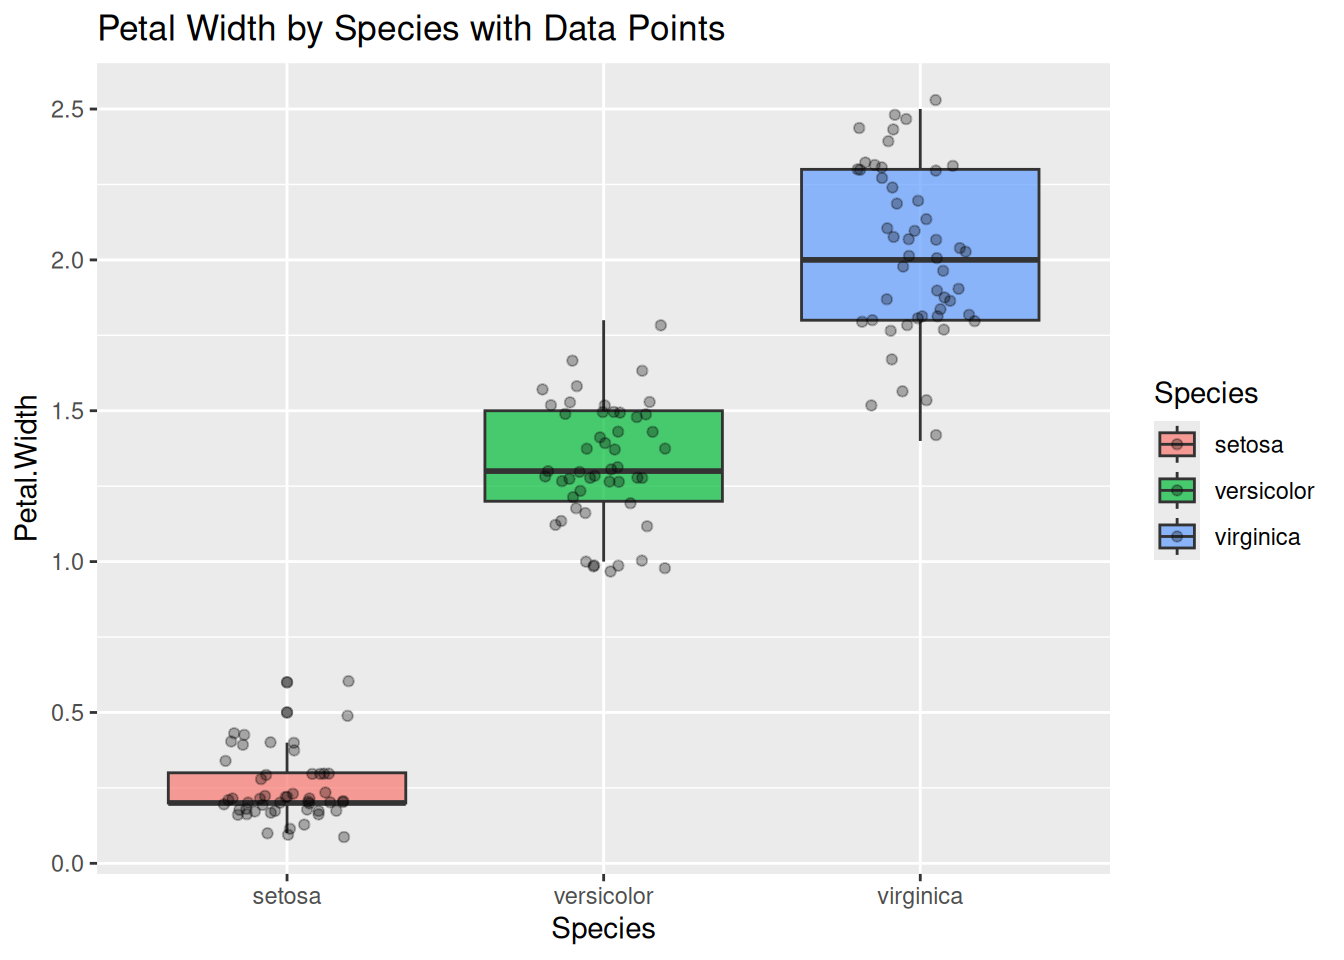
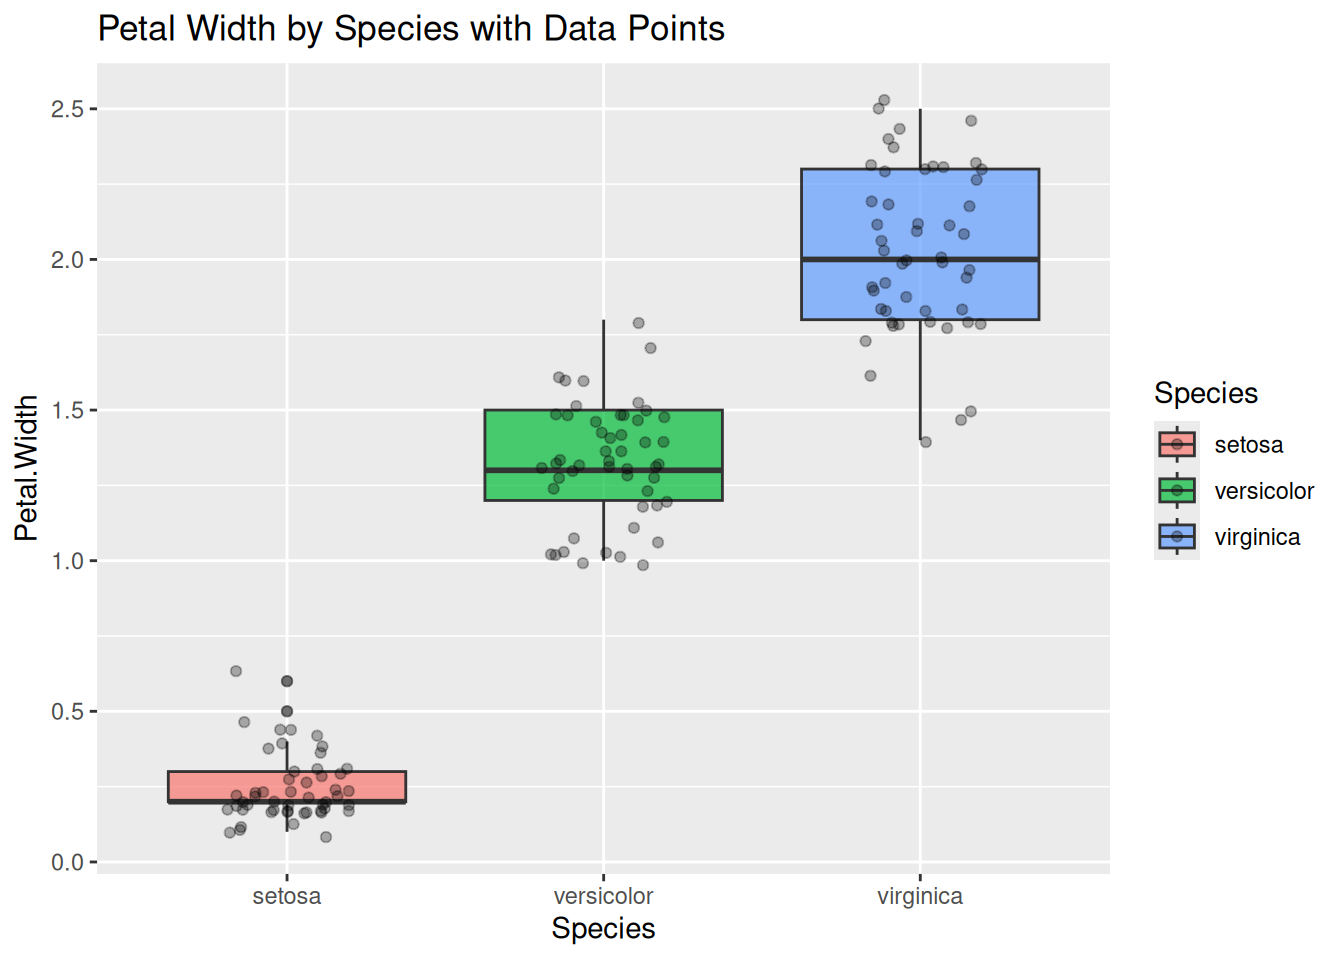
updated sidebar

diff --git a/docs/r-tutorial/4StatisticalAnalysis.html b/docs/r-tutorial/4StatisticalAnalysis.html
@@ -357,23 +357,23 @@ pre > code.sourceCode > span > a:first-child::before { text-decoration: underlin
 
     <script>
       // Create table-specific functions using external factory
-      const tableFns_upsnbsl1tlbatbt6h4bt = TinyTable.createTableFunctions("tinytable_upsnbsl1tlbatbt6h4bt");
+      const tableFns_374ycenhi2wn12c3tktt = TinyTable.createTableFunctions("tinytable_374ycenhi2wn12c3tktt");
       // tinytable span after
       window.addEventListener('load', function () {
           var cellsToStyle = [
             // tinytable style arrays after
-          { positions: [ { i: '6', j: 3 }, { i: '6', j: 4 }, { i: '6', j: 5 } ], css_id: 'tinytable_css_02z5najz4wd6gfgw926m',}, 
-          { positions: [ { i: '1', j: 3 }, { i: '2', j: 3 }, { i: '3', j: 3 }, { i: '4', j: 3 }, { i: '5', j: 3 }, { i: '1', j: 4 }, { i: '2', j: 4 }, { i: '3', j: 4 }, { i: '4', j: 4 }, { i: '5', j: 4 }, { i: '1', j: 5 }, { i: '2', j: 5 }, { i: '3', j: 5 }, { i: '4', j: 5 }, { i: '5', j: 5 } ], css_id: 'tinytable_css_k1pmapd3bjt8xq6niu3m',}, 
-          { positions: [ { i: '0', j: 3 }, { i: '0', j: 4 }, { i: '0', j: 5 } ], css_id: 'tinytable_css_we4lrx3vsed37xxqtoii',}, 
-          { positions: [ { i: '6', j: 1 }, { i: '6', j: 2 } ], css_id: 'tinytable_css_c86n5cbfs6wk9m1sos1z',}, 
-          { positions: [ { i: '1', j: 1 }, { i: '2', j: 1 }, { i: '3', j: 1 }, { i: '4', j: 1 }, { i: '5', j: 1 }, { i: '1', j: 2 }, { i: '2', j: 2 }, { i: '3', j: 2 }, { i: '4', j: 2 }, { i: '5', j: 2 } ], css_id: 'tinytable_css_j82vrtus5cxqwl1uw58u',}, 
-          { positions: [ { i: '0', j: 1 }, { i: '0', j: 2 } ], css_id: 'tinytable_css_w0msxivypxb0uu1harna',}, 
+          { positions: [ { i: '6', j: 3 }, { i: '6', j: 4 }, { i: '6', j: 5 } ], css_id: 'tinytable_css_wufca85wapmo186gys2g',}, 
+          { positions: [ { i: '1', j: 3 }, { i: '2', j: 3 }, { i: '3', j: 3 }, { i: '4', j: 3 }, { i: '5', j: 3 }, { i: '1', j: 4 }, { i: '2', j: 4 }, { i: '3', j: 4 }, { i: '4', j: 4 }, { i: '5', j: 4 }, { i: '1', j: 5 }, { i: '2', j: 5 }, { i: '3', j: 5 }, { i: '4', j: 5 }, { i: '5', j: 5 } ], css_id: 'tinytable_css_il0slav2actfytgyhx9m',}, 
+          { positions: [ { i: '0', j: 3 }, { i: '0', j: 4 }, { i: '0', j: 5 } ], css_id: 'tinytable_css_ubamn7dusdtm0cf72v0b',}, 
+          { positions: [ { i: '6', j: 1 }, { i: '6', j: 2 } ], css_id: 'tinytable_css_zntxlg8zc40x9brg6sri',}, 
+          { positions: [ { i: '1', j: 1 }, { i: '2', j: 1 }, { i: '3', j: 1 }, { i: '4', j: 1 }, { i: '5', j: 1 }, { i: '1', j: 2 }, { i: '2', j: 2 }, { i: '3', j: 2 }, { i: '4', j: 2 }, { i: '5', j: 2 } ], css_id: 'tinytable_css_jv9xbdcr91lpzg7ifk6i',}, 
+          { positions: [ { i: '0', j: 1 }, { i: '0', j: 2 } ], css_id: 'tinytable_css_hrb7d0nvprcy7z6gr3ot',}, 
           ];
 
           // Loop over the arrays to style the cells
           cellsToStyle.forEach(function (group) {
               group.positions.forEach(function (cell) {
-                  tableFns_upsnbsl1tlbatbt6h4bt.styleCell(cell.i, cell.j, group.css_id);
+                  tableFns_374ycenhi2wn12c3tktt.styleCell(cell.i, cell.j, group.css_id);
               });
           });
       });
@@ -382,15 +382,15 @@ pre > code.sourceCode > span > a:first-child::before { text-decoration: underlin
     <link rel="stylesheet" href="https://cdn.jsdelivr.net/gh/vincentarelbundock/tinytable@main/inst/tinytable.css">
     <style>
     /* tinytable css entries after */
-    #tinytable_upsnbsl1tlbatbt6h4bt td.tinytable_css_02z5najz4wd6gfgw926m, #tinytable_upsnbsl1tlbatbt6h4bt th.tinytable_css_02z5najz4wd6gfgw926m {  position: relative; --border-bottom: 1; --border-left: 0; --border-right: 0; --border-top: 0; --line-color-bottom: var(--tt-line-color); --line-color-left: var(--tt-line-color); --line-color-right: var(--tt-line-color); --line-color-top: var(--tt-line-color); --line-width-bottom: 0.1em; --line-width-left: 0.1em; --line-width-right: 0.1em; --line-width-top: 0.1em; --trim-bottom-left: 0%; --trim-bottom-right: 0%; --trim-left-bottom: 0%; --trim-left-top: 0%; --trim-right-bottom: 0%; --trim-right-top: 0%; --trim-top-left: 0%; --trim-top-right: 0%; ; text-align: right }
-    #tinytable_upsnbsl1tlbatbt6h4bt td.tinytable_css_k1pmapd3bjt8xq6niu3m, #tinytable_upsnbsl1tlbatbt6h4bt th.tinytable_css_k1pmapd3bjt8xq6niu3m { text-align: right }
-    #tinytable_upsnbsl1tlbatbt6h4bt td.tinytable_css_we4lrx3vsed37xxqtoii, #tinytable_upsnbsl1tlbatbt6h4bt th.tinytable_css_we4lrx3vsed37xxqtoii {  position: relative; --border-bottom: 1; --border-left: 0; --border-right: 0; --border-top: 1; --line-color-bottom: var(--tt-line-color); --line-color-left: var(--tt-line-color); --line-color-right: var(--tt-line-color); --line-color-top: var(--tt-line-color); --line-width-bottom: 0.05em; --line-width-left: 0.1em; --line-width-right: 0.1em; --line-width-top: 0.1em; --trim-bottom-left: 0%; --trim-bottom-right: 0%; --trim-left-bottom: 0%; --trim-left-top: 0%; --trim-right-bottom: 0%; --trim-right-top: 0%; --trim-top-left: 0%; --trim-top-right: 0%; ; text-align: right }
-    #tinytable_upsnbsl1tlbatbt6h4bt td.tinytable_css_c86n5cbfs6wk9m1sos1z, #tinytable_upsnbsl1tlbatbt6h4bt th.tinytable_css_c86n5cbfs6wk9m1sos1z {  position: relative; --border-bottom: 1; --border-left: 0; --border-right: 0; --border-top: 0; --line-color-bottom: var(--tt-line-color); --line-color-left: var(--tt-line-color); --line-color-right: var(--tt-line-color); --line-color-top: var(--tt-line-color); --line-width-bottom: 0.1em; --line-width-left: 0.1em; --line-width-right: 0.1em; --line-width-top: 0.1em; --trim-bottom-left: 0%; --trim-bottom-right: 0%; --trim-left-bottom: 0%; --trim-left-top: 0%; --trim-right-bottom: 0%; --trim-right-top: 0%; --trim-top-left: 0%; --trim-top-right: 0%; ; text-align: left }
-    #tinytable_upsnbsl1tlbatbt6h4bt td.tinytable_css_j82vrtus5cxqwl1uw58u, #tinytable_upsnbsl1tlbatbt6h4bt th.tinytable_css_j82vrtus5cxqwl1uw58u { text-align: left }
-    #tinytable_upsnbsl1tlbatbt6h4bt td.tinytable_css_w0msxivypxb0uu1harna, #tinytable_upsnbsl1tlbatbt6h4bt th.tinytable_css_w0msxivypxb0uu1harna {  position: relative; --border-bottom: 1; --border-left: 0; --border-right: 0; --border-top: 1; --line-color-bottom: var(--tt-line-color); --line-color-left: var(--tt-line-color); --line-color-right: var(--tt-line-color); --line-color-top: var(--tt-line-color); --line-width-bottom: 0.05em; --line-width-left: 0.1em; --line-width-right: 0.1em; --line-width-top: 0.1em; --trim-bottom-left: 0%; --trim-bottom-right: 0%; --trim-left-bottom: 0%; --trim-left-top: 0%; --trim-right-bottom: 0%; --trim-right-top: 0%; --trim-top-left: 0%; --trim-top-right: 0%; ; text-align: left }
+    #tinytable_374ycenhi2wn12c3tktt td.tinytable_css_wufca85wapmo186gys2g, #tinytable_374ycenhi2wn12c3tktt th.tinytable_css_wufca85wapmo186gys2g {  position: relative; --border-bottom: 1; --border-left: 0; --border-right: 0; --border-top: 0; --line-color-bottom: var(--tt-line-color); --line-color-left: var(--tt-line-color); --line-color-right: var(--tt-line-color); --line-color-top: var(--tt-line-color); --line-width-bottom: 0.1em; --line-width-left: 0.1em; --line-width-right: 0.1em; --line-width-top: 0.1em; --trim-bottom-left: 0%; --trim-bottom-right: 0%; --trim-left-bottom: 0%; --trim-left-top: 0%; --trim-right-bottom: 0%; --trim-right-top: 0%; --trim-top-left: 0%; --trim-top-right: 0%; ; text-align: right }
+    #tinytable_374ycenhi2wn12c3tktt td.tinytable_css_il0slav2actfytgyhx9m, #tinytable_374ycenhi2wn12c3tktt th.tinytable_css_il0slav2actfytgyhx9m { text-align: right }
+    #tinytable_374ycenhi2wn12c3tktt td.tinytable_css_ubamn7dusdtm0cf72v0b, #tinytable_374ycenhi2wn12c3tktt th.tinytable_css_ubamn7dusdtm0cf72v0b {  position: relative; --border-bottom: 1; --border-left: 0; --border-right: 0; --border-top: 1; --line-color-bottom: var(--tt-line-color); --line-color-left: var(--tt-line-color); --line-color-right: var(--tt-line-color); --line-color-top: var(--tt-line-color); --line-width-bottom: 0.05em; --line-width-left: 0.1em; --line-width-right: 0.1em; --line-width-top: 0.1em; --trim-bottom-left: 0%; --trim-bottom-right: 0%; --trim-left-bottom: 0%; --trim-left-top: 0%; --trim-right-bottom: 0%; --trim-right-top: 0%; --trim-top-left: 0%; --trim-top-right: 0%; ; text-align: right }
+    #tinytable_374ycenhi2wn12c3tktt td.tinytable_css_zntxlg8zc40x9brg6sri, #tinytable_374ycenhi2wn12c3tktt th.tinytable_css_zntxlg8zc40x9brg6sri {  position: relative; --border-bottom: 1; --border-left: 0; --border-right: 0; --border-top: 0; --line-color-bottom: var(--tt-line-color); --line-color-left: var(--tt-line-color); --line-color-right: var(--tt-line-color); --line-color-top: var(--tt-line-color); --line-width-bottom: 0.1em; --line-width-left: 0.1em; --line-width-right: 0.1em; --line-width-top: 0.1em; --trim-bottom-left: 0%; --trim-bottom-right: 0%; --trim-left-bottom: 0%; --trim-left-top: 0%; --trim-right-bottom: 0%; --trim-right-top: 0%; --trim-top-left: 0%; --trim-top-right: 0%; ; text-align: left }
+    #tinytable_374ycenhi2wn12c3tktt td.tinytable_css_jv9xbdcr91lpzg7ifk6i, #tinytable_374ycenhi2wn12c3tktt th.tinytable_css_jv9xbdcr91lpzg7ifk6i { text-align: left }
+    #tinytable_374ycenhi2wn12c3tktt td.tinytable_css_hrb7d0nvprcy7z6gr3ot, #tinytable_374ycenhi2wn12c3tktt th.tinytable_css_hrb7d0nvprcy7z6gr3ot {  position: relative; --border-bottom: 1; --border-left: 0; --border-right: 0; --border-top: 1; --line-color-bottom: var(--tt-line-color); --line-color-left: var(--tt-line-color); --line-color-right: var(--tt-line-color); --line-color-top: var(--tt-line-color); --line-width-bottom: 0.05em; --line-width-left: 0.1em; --line-width-right: 0.1em; --line-width-top: 0.1em; --trim-bottom-left: 0%; --trim-bottom-right: 0%; --trim-left-bottom: 0%; --trim-left-top: 0%; --trim-right-bottom: 0%; --trim-right-top: 0%; --trim-top-left: 0%; --trim-top-right: 0%; ; text-align: left }
     </style>
     <div class="container">
-      <table class="tinytable" id="tinytable_upsnbsl1tlbatbt6h4bt" style="width: auto; margin-left: auto; margin-right: auto;" data-quarto-disable-processing="true">
+      <table class="tinytable" id="tinytable_374ycenhi2wn12c3tktt" style="width: auto; margin-left: auto; margin-right: auto;" data-quarto-disable-processing="true">
         
         <thead>
               <tr>
@@ -466,23 +466,23 @@ pre > code.sourceCode > span > a:first-child::before { text-decoration: underlin
 
     <script>
       // Create table-specific functions using external factory
-      const tableFns_0ac20kukjn6k8f0yf9et = TinyTable.createTableFunctions("tinytable_0ac20kukjn6k8f0yf9et");
+      const tableFns_pqh5hqo3qnbg8i70icv6 = TinyTable.createTableFunctions("tinytable_pqh5hqo3qnbg8i70icv6");
       // tinytable span after
       window.addEventListener('load', function () {
           var cellsToStyle = [
             // tinytable style arrays after
-          { positions: [ { i: '6', j: 3 }, { i: '6', j: 4 }, { i: '6', j: 5 } ], css_id: 'tinytable_css_11whqqc7vu8isufu4b06',}, 
-          { positions: [ { i: '1', j: 3 }, { i: '2', j: 3 }, { i: '3', j: 3 }, { i: '4', j: 3 }, { i: '5', j: 3 }, { i: '1', j: 4 }, { i: '2', j: 4 }, { i: '3', j: 4 }, { i: '4', j: 4 }, { i: '5', j: 4 }, { i: '1', j: 5 }, { i: '2', j: 5 }, { i: '3', j: 5 }, { i: '4', j: 5 }, { i: '5', j: 5 } ], css_id: 'tinytable_css_nqpypwq73ivc4kxhkckn',}, 
-          { positions: [ { i: '0', j: 3 }, { i: '0', j: 4 }, { i: '0', j: 5 } ], css_id: 'tinytable_css_2ac2duwjz6mvivpduijk',}, 
-          { positions: [ { i: '6', j: 1 }, { i: '6', j: 2 } ], css_id: 'tinytable_css_w1fs23yjiwbiunzn0255',}, 
-          { positions: [ { i: '1', j: 1 }, { i: '2', j: 1 }, { i: '3', j: 1 }, { i: '4', j: 1 }, { i: '5', j: 1 }, { i: '1', j: 2 }, { i: '2', j: 2 }, { i: '3', j: 2 }, { i: '4', j: 2 }, { i: '5', j: 2 } ], css_id: 'tinytable_css_n6niu8vg9x7j99voxukk',}, 
-          { positions: [ { i: '0', j: 1 }, { i: '0', j: 2 } ], css_id: 'tinytable_css_d48nwl54n74fwgwx6yhx',}, 
+          { positions: [ { i: '6', j: 3 }, { i: '6', j: 4 }, { i: '6', j: 5 } ], css_id: 'tinytable_css_naw8zc4d4m3aelsl01nm',}, 
+          { positions: [ { i: '1', j: 3 }, { i: '2', j: 3 }, { i: '3', j: 3 }, { i: '4', j: 3 }, { i: '5', j: 3 }, { i: '1', j: 4 }, { i: '2', j: 4 }, { i: '3', j: 4 }, { i: '4', j: 4 }, { i: '5', j: 4 }, { i: '1', j: 5 }, { i: '2', j: 5 }, { i: '3', j: 5 }, { i: '4', j: 5 }, { i: '5', j: 5 } ], css_id: 'tinytable_css_5zi2a9okw5ewmww61gdz',}, 
+          { positions: [ { i: '0', j: 3 }, { i: '0', j: 4 }, { i: '0', j: 5 } ], css_id: 'tinytable_css_zltc8uh01wf25qqd26pp',}, 
+          { positions: [ { i: '6', j: 1 }, { i: '6', j: 2 } ], css_id: 'tinytable_css_y26cw5cnr3frlktp7rij',}, 
+          { positions: [ { i: '1', j: 1 }, { i: '2', j: 1 }, { i: '3', j: 1 }, { i: '4', j: 1 }, { i: '5', j: 1 }, { i: '1', j: 2 }, { i: '2', j: 2 }, { i: '3', j: 2 }, { i: '4', j: 2 }, { i: '5', j: 2 } ], css_id: 'tinytable_css_wevcmu3q9tk518vkp5yl',}, 
+          { positions: [ { i: '0', j: 1 }, { i: '0', j: 2 } ], css_id: 'tinytable_css_9yv1zquih0zvfwacddyj',}, 
           ];
 
           // Loop over the arrays to style the cells
           cellsToStyle.forEach(function (group) {
               group.positions.forEach(function (cell) {
-                  tableFns_0ac20kukjn6k8f0yf9et.styleCell(cell.i, cell.j, group.css_id);
+                  tableFns_pqh5hqo3qnbg8i70icv6.styleCell(cell.i, cell.j, group.css_id);
               });
           });
       });
@@ -491,15 +491,15 @@ pre > code.sourceCode > span > a:first-child::before { text-decoration: underlin
     <link rel="stylesheet" href="https://cdn.jsdelivr.net/gh/vincentarelbundock/tinytable@main/inst/tinytable.css">
     <style>
     /* tinytable css entries after */
-    #tinytable_0ac20kukjn6k8f0yf9et td.tinytable_css_11whqqc7vu8isufu4b06, #tinytable_0ac20kukjn6k8f0yf9et th.tinytable_css_11whqqc7vu8isufu4b06 {  position: relative; --border-bottom: 1; --border-left: 0; --border-right: 0; --border-top: 0; --line-color-bottom: var(--tt-line-color); --line-color-left: var(--tt-line-color); --line-color-right: var(--tt-line-color); --line-color-top: var(--tt-line-color); --line-width-bottom: 0.1em; --line-width-left: 0.1em; --line-width-right: 0.1em; --line-width-top: 0.1em; --trim-bottom-left: 0%; --trim-bottom-right: 0%; --trim-left-bottom: 0%; --trim-left-top: 0%; --trim-right-bottom: 0%; --trim-right-top: 0%; --trim-top-left: 0%; --trim-top-right: 0%; ; text-align: right }
-    #tinytable_0ac20kukjn6k8f0yf9et td.tinytable_css_nqpypwq73ivc4kxhkckn, #tinytable_0ac20kukjn6k8f0yf9et th.tinytable_css_nqpypwq73ivc4kxhkckn { text-align: right }
-    #tinytable_0ac20kukjn6k8f0yf9et td.tinytable_css_2ac2duwjz6mvivpduijk, #tinytable_0ac20kukjn6k8f0yf9et th.tinytable_css_2ac2duwjz6mvivpduijk {  position: relative; --border-bottom: 1; --border-left: 0; --border-right: 0; --border-top: 1; --line-color-bottom: var(--tt-line-color); --line-color-left: var(--tt-line-color); --line-color-right: var(--tt-line-color); --line-color-top: var(--tt-line-color); --line-width-bottom: 0.05em; --line-width-left: 0.1em; --line-width-right: 0.1em; --line-width-top: 0.1em; --trim-bottom-left: 0%; --trim-bottom-right: 0%; --trim-left-bottom: 0%; --trim-left-top: 0%; --trim-right-bottom: 0%; --trim-right-top: 0%; --trim-top-left: 0%; --trim-top-right: 0%; ; text-align: right }
-    #tinytable_0ac20kukjn6k8f0yf9et td.tinytable_css_w1fs23yjiwbiunzn0255, #tinytable_0ac20kukjn6k8f0yf9et th.tinytable_css_w1fs23yjiwbiunzn0255 {  position: relative; --border-bottom: 1; --border-left: 0; --border-right: 0; --border-top: 0; --line-color-bottom: var(--tt-line-color); --line-color-left: var(--tt-line-color); --line-color-right: var(--tt-line-color); --line-color-top: var(--tt-line-color); --line-width-bottom: 0.1em; --line-width-left: 0.1em; --line-width-right: 0.1em; --line-width-top: 0.1em; --trim-bottom-left: 0%; --trim-bottom-right: 0%; --trim-left-bottom: 0%; --trim-left-top: 0%; --trim-right-bottom: 0%; --trim-right-top: 0%; --trim-top-left: 0%; --trim-top-right: 0%; ; text-align: left }
-    #tinytable_0ac20kukjn6k8f0yf9et td.tinytable_css_n6niu8vg9x7j99voxukk, #tinytable_0ac20kukjn6k8f0yf9et th.tinytable_css_n6niu8vg9x7j99voxukk { text-align: left }
-    #tinytable_0ac20kukjn6k8f0yf9et td.tinytable_css_d48nwl54n74fwgwx6yhx, #tinytable_0ac20kukjn6k8f0yf9et th.tinytable_css_d48nwl54n74fwgwx6yhx {  position: relative; --border-bottom: 1; --border-left: 0; --border-right: 0; --border-top: 1; --line-color-bottom: var(--tt-line-color); --line-color-left: var(--tt-line-color); --line-color-right: var(--tt-line-color); --line-color-top: var(--tt-line-color); --line-width-bottom: 0.05em; --line-width-left: 0.1em; --line-width-right: 0.1em; --line-width-top: 0.1em; --trim-bottom-left: 0%; --trim-bottom-right: 0%; --trim-left-bottom: 0%; --trim-left-top: 0%; --trim-right-bottom: 0%; --trim-right-top: 0%; --trim-top-left: 0%; --trim-top-right: 0%; ; text-align: left }
+    #tinytable_pqh5hqo3qnbg8i70icv6 td.tinytable_css_naw8zc4d4m3aelsl01nm, #tinytable_pqh5hqo3qnbg8i70icv6 th.tinytable_css_naw8zc4d4m3aelsl01nm {  position: relative; --border-bottom: 1; --border-left: 0; --border-right: 0; --border-top: 0; --line-color-bottom: var(--tt-line-color); --line-color-left: var(--tt-line-color); --line-color-right: var(--tt-line-color); --line-color-top: var(--tt-line-color); --line-width-bottom: 0.1em; --line-width-left: 0.1em; --line-width-right: 0.1em; --line-width-top: 0.1em; --trim-bottom-left: 0%; --trim-bottom-right: 0%; --trim-left-bottom: 0%; --trim-left-top: 0%; --trim-right-bottom: 0%; --trim-right-top: 0%; --trim-top-left: 0%; --trim-top-right: 0%; ; text-align: right }
+    #tinytable_pqh5hqo3qnbg8i70icv6 td.tinytable_css_5zi2a9okw5ewmww61gdz, #tinytable_pqh5hqo3qnbg8i70icv6 th.tinytable_css_5zi2a9okw5ewmww61gdz { text-align: right }
+    #tinytable_pqh5hqo3qnbg8i70icv6 td.tinytable_css_zltc8uh01wf25qqd26pp, #tinytable_pqh5hqo3qnbg8i70icv6 th.tinytable_css_zltc8uh01wf25qqd26pp {  position: relative; --border-bottom: 1; --border-left: 0; --border-right: 0; --border-top: 1; --line-color-bottom: var(--tt-line-color); --line-color-left: var(--tt-line-color); --line-color-right: var(--tt-line-color); --line-color-top: var(--tt-line-color); --line-width-bottom: 0.05em; --line-width-left: 0.1em; --line-width-right: 0.1em; --line-width-top: 0.1em; --trim-bottom-left: 0%; --trim-bottom-right: 0%; --trim-left-bottom: 0%; --trim-left-top: 0%; --trim-right-bottom: 0%; --trim-right-top: 0%; --trim-top-left: 0%; --trim-top-right: 0%; ; text-align: right }
+    #tinytable_pqh5hqo3qnbg8i70icv6 td.tinytable_css_y26cw5cnr3frlktp7rij, #tinytable_pqh5hqo3qnbg8i70icv6 th.tinytable_css_y26cw5cnr3frlktp7rij {  position: relative; --border-bottom: 1; --border-left: 0; --border-right: 0; --border-top: 0; --line-color-bottom: var(--tt-line-color); --line-color-left: var(--tt-line-color); --line-color-right: var(--tt-line-color); --line-color-top: var(--tt-line-color); --line-width-bottom: 0.1em; --line-width-left: 0.1em; --line-width-right: 0.1em; --line-width-top: 0.1em; --trim-bottom-left: 0%; --trim-bottom-right: 0%; --trim-left-bottom: 0%; --trim-left-top: 0%; --trim-right-bottom: 0%; --trim-right-top: 0%; --trim-top-left: 0%; --trim-top-right: 0%; ; text-align: left }
+    #tinytable_pqh5hqo3qnbg8i70icv6 td.tinytable_css_wevcmu3q9tk518vkp5yl, #tinytable_pqh5hqo3qnbg8i70icv6 th.tinytable_css_wevcmu3q9tk518vkp5yl { text-align: left }
+    #tinytable_pqh5hqo3qnbg8i70icv6 td.tinytable_css_9yv1zquih0zvfwacddyj, #tinytable_pqh5hqo3qnbg8i70icv6 th.tinytable_css_9yv1zquih0zvfwacddyj {  position: relative; --border-bottom: 1; --border-left: 0; --border-right: 0; --border-top: 1; --line-color-bottom: var(--tt-line-color); --line-color-left: var(--tt-line-color); --line-color-right: var(--tt-line-color); --line-color-top: var(--tt-line-color); --line-width-bottom: 0.05em; --line-width-left: 0.1em; --line-width-right: 0.1em; --line-width-top: 0.1em; --trim-bottom-left: 0%; --trim-bottom-right: 0%; --trim-left-bottom: 0%; --trim-left-top: 0%; --trim-right-bottom: 0%; --trim-right-top: 0%; --trim-top-left: 0%; --trim-top-right: 0%; ; text-align: left }
     </style>
     <div class="container">
-      <table class="tinytable" id="tinytable_0ac20kukjn6k8f0yf9et" style="width: auto; margin-left: auto; margin-right: auto;" data-quarto-disable-processing="true">
+      <table class="tinytable" id="tinytable_pqh5hqo3qnbg8i70icv6" style="width: auto; margin-left: auto; margin-right: auto;" data-quarto-disable-processing="true">
         
         <thead>
               <tr>